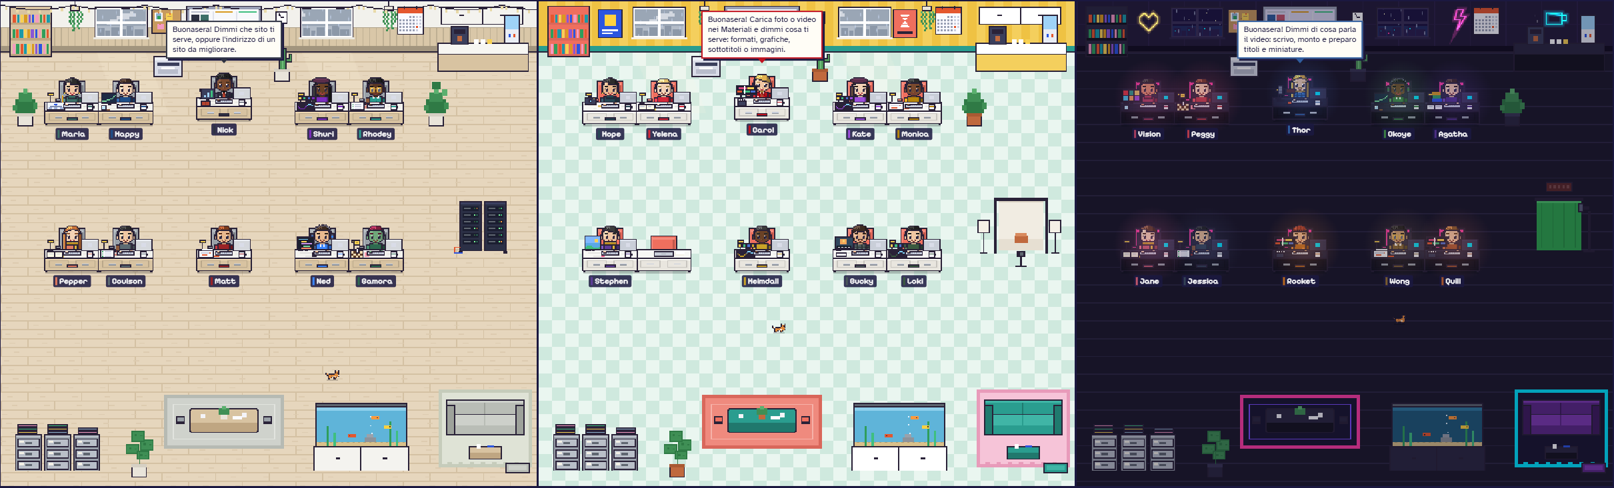
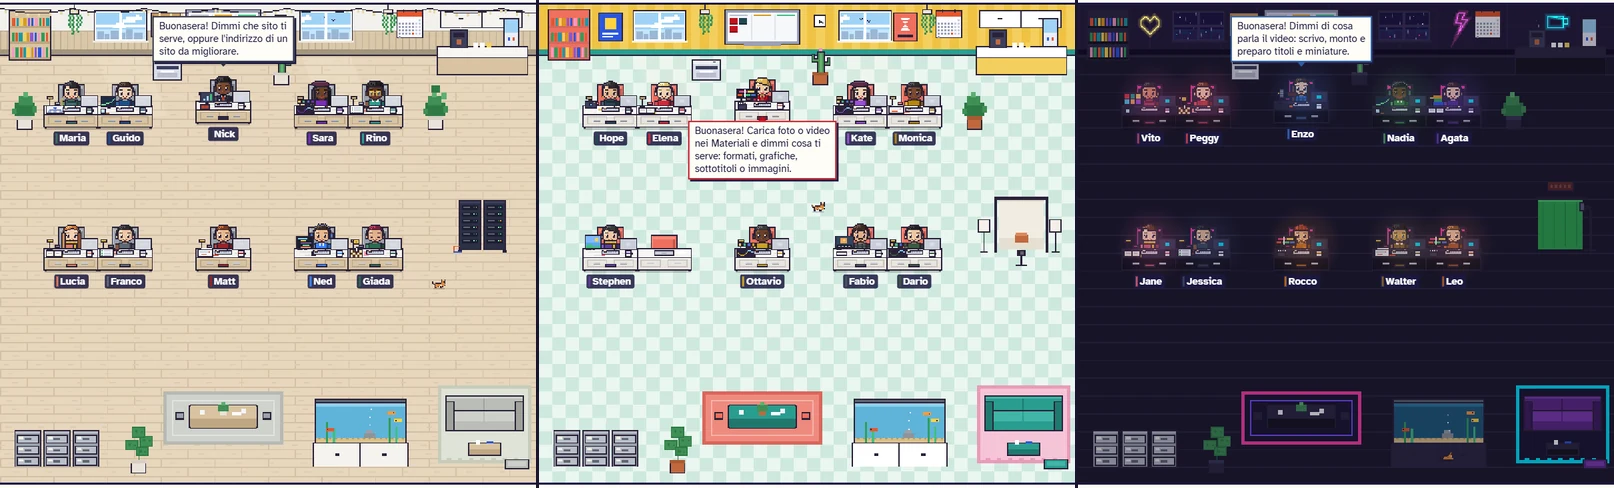
README: novità della 0.11 uscite, foto con i nomi nuovi degli agenti, link alla pagina su ignisdilor.it

Changed region(s): [[0.0, 0.0, 1.0, 1.0], [0.9603, 0.4918, 0.9913, 0.5225], [0.2478, 0.3074, 0.2788, 0.3381]]

diff --git a/README.md b/README.md
@@ -15,7 +15,7 @@ Senza abbonamenti, senza mandare i tuoi file a nessuno.
 
 <img src="immagini/palazzo-giorno-sera.png" alt="Il palazzo di Ufficio Agenti IA di giorno e di sera: quattro piani con gli agenti alle scrivanie" width="860">
 
-<sub>Il palazzo dell'ufficio, di giorno e di sera: segue l'ora del tuo computer. Immagini della prossima versione.</sub>
+<sub>Il palazzo dell'ufficio, di giorno e di sera: segue l'ora del tuo computer.</sub>
 
 </div>
 
@@ -64,14 +64,14 @@ come fonte e non inventa dati.
   (chiama, prenota, scrivi su WhatsApp), niente frasi fatte.
 - **Pronto da pubblicare.** Il risultato è un file finito (video, immagine, sito, pacchetto YouTube) nella cartella del cliente.
 
-## In arrivo nella prossima versione
+## Le novità della versione 0.11
 
-La versione che scarichi oggi ha i quattro piani e tutto il piano Social rifinito. La prossima è quasi pronta
-(si sta facendo l'ultima revisione) e porta:
+La versione 0.11, «Palazzo in regia», è uscita a fine novembre 2026 e porta:
 
-- **Una grafica nuova, «Palazzo in regia».** All'apertura vedi il palazzo e cosa è successo mentre eri via: cosa
+- **La grafica «Palazzo in regia».** All'apertura vedi il palazzo e cosa è successo mentre eri via: cosa
   aspetta te, cosa è in corso, cosa è pronto. Ogni piano ha il suo ufficio, con il suo arredamento.
 - **Prima volta guidata.** L'app guarda il tuo computer, sceglie il modello giusto e installa da sola Ollama e Gemma.
+  Poi, se Ollama è spento, lo accende lei quando la apri e lo spegne quando la chiudi.
 - **Memoria.** Il team ricorda le regole che confermi («mai emoji per questo cliente») e i fatti verificati di ogni
   cliente. Le note si aprono anche in Obsidian.
 - **Lavori di notte.** «Fallo stanotte» mette l'incarico in coda: parte all'una e al mattino trovi tutto pronto.
@@ -84,7 +84,7 @@ La versione che scarichi oggi ha i quattro piani e tutto il piano Social rifinit
 
 <p align="center">
   <img src="immagini/altri-piani.png" alt="Gli uffici dei piani Siti web, Materiali e YouTube" width="860">
-  <br><sub>Gli uffici dei piani Siti web, Materiali e YouTube nella nuova grafica.</sub>
+  <br><sub>Gli uffici dei piani Siti web, Materiali e YouTube.</sub>
 </p>
 
 ## Requisiti
@@ -128,7 +128,8 @@ e allega `Documenti\Ufficio Agenti IA\ufficio.log`.
 
 <div align="center">
 
-Fatto da **Ignazio Dilorenzo · [IgnisDilor](https://www.ignisdilor.it)**, con Claude.
+Fatto da **Ignazio Dilorenzo · [IgnisDilor](https://www.ignisdilor.it)**, con Claude. ·
+[La pagina dell'app su ignisdilor.it](https://www.ignisdilor.it/ufficio-agenti-ia/)
 
 *Non creo siti belli, creo sistemi che portano clienti.*
 
